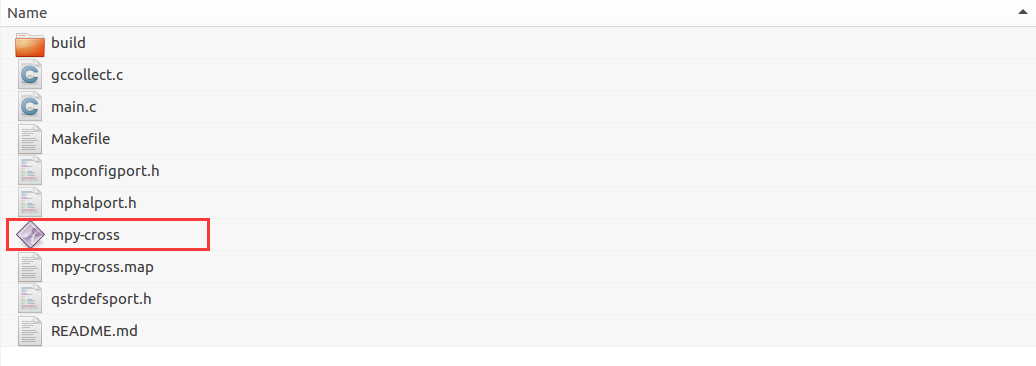
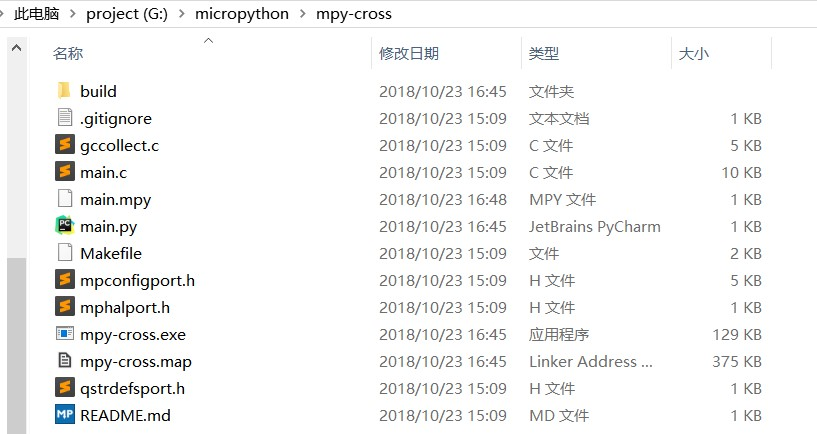
update the mpy file precompiled

diff --git a/docs/tutorial/precompiled_to_mpy.rst b/docs/tutorial/precompiled_to_mpy.rst
@@ -7,14 +7,15 @@
 
 接触过Python语言的人都知道，Python可以编译成.pyc文件，它是一种二进制文件，可以提高程序的加载速度，同时也是一种保护源代码的有效方法。 在micropython中，也提供了类似的功能，可以将.py文件编译成.mpy文件。接下来，介绍一下具体的实现步骤。（本文以 mingw32 工具链为例）
 
-
 搭建micropython编译环境
 -------------------------
-注: 在不同的系统环境以及不同的目标主板，micropython的开发环境安装是有差别的，这里仅以esp32的 mingw32 工具链作为示意。
+** 注意：**
+1. 在不同的系统环境以及不同的目标主板，micropython的开发环境安装是有差别的，这里仅以乐鑫esp32的mingw32工具链作为示意。
+2. 对于乐鑫的工具链，我们是需要用到它的 ``xtensa-esp32-elf``
 
 1. 参考乐鑫 `设置工具链 <https://docs.espressif.com/projects/esp-idf/en/stable/get-started/#setup-toolchain>`_，以 windows系统为例，可以从乐鑫的官网下载 `Windows all-in-one工具链 & MSYS2 zip包 <https://dl.espressif.com/dl/esp32_win32_msys2_environment_and_toolchain-20180110.zip>`_，将zip文件解压缩到C盘的根目录（也可以是其他一些位置，但本文档假定为 ``C:\``  ），它将创建一个带有预先准备好的环境的msys32目录。
 
-2.下载micropython源码包到本地，我下载到了home目录下。
+2.下载micropython源码包到本地，我下载到了G盘的根目录下。
 
 .. code-block::
 
@@ -22,7 +23,7 @@
 
 生成mpy文件
 -------------------------
-3.切换到/home/micropython/mpy-cross目录执行make，编译生成mpy-cross工具。
+3.执行msys32目录中的 ``mingw32.exe`` 切换到 /g/micropython/mpy-cross目录执行make，编译生成mpy-cross工具。
 
 .. code-block::
 
@@ -32,19 +33,32 @@
 
 .. image::img/2.png
 
-4.在mpy-cross目录新建一下test.py文件，输入点亮小程的LED，用于测试。
+4.在mpy-cross目录新建一下main.py文件，以小程为例，写一个测试程序用于验证。
  
 .. code-block:: python
  
-   import codey
-
-   codey.led.show(2555,255,255)
+  import codey
+  import time
+  
+  codey.led.show(2555,255,255)
+  time.sleep(2)
+  codey.led.off()
+  time.sleep(2)
+  while True:
+      codey.led.set_red(255)
+      time.sleep(1)
+      codey.led.set_green(255)
+      time.sleep(1)
+      codey.led.set_blue(255)
+      time.sleep(1)
+      codey.led.off()
+      time.sleep(1)
 
 5.执行编译mpy文件的命令。
 
 .. code-block::
 
-  ./mpy-cross test.py
+  ./mpy-cross main.py
 
 其他相关功能可查看同目录下的README.md文件。
 
@@ -52,17 +66,13 @@
 
 .. image:: img/3.png
 
-7.将test.mpy文件拷贝放到小程的flash中，直接在main.py中import即可。
+7.将 main.mpy 文件拷贝放到小程的flash中，如果是 main文件名的话，小程会自动运行。
+  烧录 *.py 或者 *.mpy 文件的说明见
 
-.. code-block:: python
+.. toctree::
+  :maxdepth: 1
 
-    import test
+  ../../tutorial/add_files.rst
 
-.. image:: img/4.png
-  
-8.重启小程使其重新运行程序(用mblock烧录的话，会自动软重启)，大家就会看到小程的LED灯亮起来了。
-
-** 注意：** ::
-
- 如果运行时出现“ValueError: invalid .mpy file”错误的话，需要更新一下程小奔的micropython固件(最新版本是1.9.4)。
- 虽然是进行了加密编译成了mpy文件，但是还有一些缺陷，毕竟mpy文件仍然是存放在 FLASH 或 TF 卡中，很容易被别人拷贝，也很有可能会被反编译出来。
+** 注意：** 
+如果运行时出现“ValueError: invalid .mpy file”错误的话，需要更新一下主板的micropython固件(最新固件跟随mblock最新版本发布)。

diff --git a/docs/tutorial/add_files.rst b/docs/tutorial/add_files.rst
@@ -1,4 +1,4 @@
-.. _tutorial_micropython_add:
+.. _tutorial_micropython_add_files:
 
 [MicroPython]程小奔添加自定义类库
 ======================================

diff --git a/docs/codey&rocky/tutorial/index.rst b/docs/codey&rocky/tutorial/index.rst
@@ -5,7 +5,6 @@
 
 .. toctree::
    :maxdepth: 1
-   :numbered:
 
-   ../../tutorial/add.rst
+   ../../tutorial/add_files.rst
    ../../tutorial/precompiled_to_mpy.rst
